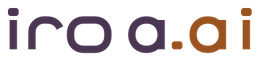
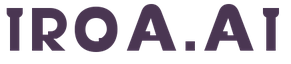
brand: redesign Track B identity family

diff --git a/tests/brand/test_brand_assets.py b/tests/brand/test_brand_assets.py
@@ -1,10 +1,12 @@
 import hashlib
 from pathlib import Path
+import re
 import shutil
 import subprocess
 import sys
 from tempfile import TemporaryDirectory
 import unittest
+from xml.etree import ElementTree as ET
 
 from PIL import Image
 
@@ -15,6 +17,110 @@ from tools.brand.render_assets import render_svg_png
 
 def _digest(path: Path) -> str:
     return hashlib.sha256(path.read_bytes()).hexdigest()
+
+
+def _local_tag(tag: str) -> str:
+    return tag.rsplit("}", 1)[-1].lower()
+
+
+def _geometry_signature(path: Path) -> tuple[str, tuple[tuple[str, str], ...]]:
+    root = ET.parse(path).getroot()
+    geometry = tuple(
+        (_local_tag(element.tag), element.attrib.get("d", ""))
+        for element in root.iter()
+        if _local_tag(element.tag) == "path"
+    )
+    return root.attrib.get("viewBox", ""), geometry
+
+
+def _svg_colors(path: Path) -> set[str]:
+    colors = set()
+    for element in ET.parse(path).iter():
+        for value in element.attrib.values():
+            colors.update(
+                color.upper() for color in re.findall(r"#[0-9A-Fa-f]{6}\b", value)
+            )
+    return colors
+
+
+def _svg_aspect_ratio(path: Path) -> float:
+    values = ET.parse(path).getroot().attrib["viewBox"].split()
+    return float(values[2]) / float(values[3])
+
+
+def _render_rgba(source: Path, width: int, height: int) -> Image.Image:
+    with TemporaryDirectory() as directory:
+        destination = Path(directory) / "render.png"
+        render_svg_png(source, destination, width, height)
+        with Image.open(destination).convert("RGBA") as image:
+            return image.copy()
+
+
+def _render_normalized(source: Path, canvas_width: int, height: int) -> Image.Image:
+    width = round(height * _svg_aspect_ratio(source))
+    if width > canvas_width:
+        raise ValueError(f"{source} is wider than the comparison canvas")
+    rendered = _render_rgba(source, width, height)
+    canvas = Image.new("RGBA", (canvas_width, height))
+    canvas.alpha_composite(rendered, ((canvas_width - width) // 2, 0))
+    return canvas
+
+
+def _alpha_iou(left: Image.Image, right: Image.Image) -> float:
+    left_ink = {
+        (x, y)
+        for y in range(left.height)
+        for x in range(left.width)
+        if left.getpixel((x, y))[3] >= 128
+    }
+    right_ink = {
+        (x, y)
+        for y in range(right.height)
+        for x in range(right.width)
+        if right.getpixel((x, y))[3] >= 128
+    }
+    return len(left_ink & right_ink) / len(left_ink | right_ink)
+
+
+def _ink_components(image: Image.Image) -> list[int]:
+    ink = {
+        (x, y)
+        for y in range(image.height)
+        for x in range(image.width)
+        if image.getpixel((x, y))[3] >= 128
+    }
+    sizes = []
+    while ink:
+        stack = [ink.pop()]
+        size = 1
+        while stack:
+            x, y = stack.pop()
+            for neighbor in ((x - 1, y), (x + 1, y), (x, y - 1), (x, y + 1)):
+                if neighbor in ink:
+                    ink.remove(neighbor)
+                    stack.append(neighbor)
+                    size += 1
+        sizes.append(size)
+    return sorted(sizes, reverse=True)
+
+
+def _horizontal_ink_runs(image: Image.Image) -> list[tuple[int, int]]:
+    columns = [
+        x
+        for x in range(image.width)
+        if any(image.getpixel((x, y))[3] >= 128 for y in range(image.height))
+    ]
+    if not columns:
+        return []
+    runs = []
+    start = previous = columns[0]
+    for column in columns[1:]:
+        if column != previous + 1:
+            runs.append((start, previous))
+            start = column
+        previous = column
+    runs.append((start, previous))
+    return runs
 
 
 class BrandContractTest(unittest.TestCase):
@@ -82,6 +188,8 @@ class BrandContractTest(unittest.TestCase):
         track_b = CandidatePaths(Path("docs/brand/candidates/track-b"))
         for path in (
             track_b.symbol,
+            track_b.root / "symbol-reverse.svg",
+            track_b.root / "symbol-mono.svg",
             track_b.wordmark,
             track_b.wordmark_reverse,
             track_b.wordmark_mono,
@@ -90,6 +198,109 @@ class BrandContractTest(unittest.TestCase):
             audit_svg(path)
         self.assertNotEqual(_digest(track_a.symbol), _digest(track_b.symbol))
         self.assertNotEqual(_digest(track_a.wordmark), _digest(track_b.wordmark))
+
+    def test_track_b_masters_are_path_only(self):
+        root = Path("docs/brand/candidates/track-b")
+        allowed = {"svg", "title", "desc", "g", "path"}
+        for path in sorted(root.glob("*.svg")):
+            tags = {_local_tag(element.tag) for element in ET.parse(path).iter()}
+            self.assertLessEqual(tags, allowed, (path, tags - allowed))
+
+    def test_track_b_color_variants_share_exact_geometry(self):
+        root = Path("docs/brand/candidates/track-b")
+        families = (
+            ("symbol.svg", "symbol-mono.svg", "symbol-reverse.svg"),
+            ("wordmark.svg", "wordmark-mono.svg", "wordmark-reverse.svg"),
+        )
+        for names in families:
+            paths = tuple(root / name for name in names)
+            for path in paths:
+                self.assertTrue(path.is_file(), path)
+            signatures = {_geometry_signature(path) for path in paths}
+            self.assertEqual(len(signatures), 1, paths)
+
+    def test_track_b_palette_excludes_legacy_colors(self):
+        neutral = {"#000000", "#111111", "#FFFFFF"}
+        legacy_paths = tuple(Path("docs/brand/candidates/track-a").glob("*.svg"))
+        legacy_paths += tuple(Path("docs/brand").glob("iroa-*.svg"))
+        legacy_colors = set().union(*(_svg_colors(path) for path in legacy_paths))
+        track_b_colors = set().union(
+            *(
+                _svg_colors(Path("docs/brand/candidates/track-b") / name)
+                for name in ("symbol.svg", "wordmark.svg")
+            )
+        )
+        chromatic_track_b = track_b_colors - neutral
+        self.assertTrue(chromatic_track_b)
+        self.assertTrue(
+            chromatic_track_b.isdisjoint(legacy_colors - neutral),
+            chromatic_track_b & legacy_colors,
+        )
+
+    def test_track_b_rendered_geometry_is_materially_independent(self):
+        track_a = CandidatePaths(Path("docs/brand/candidates/track-a"))
+        track_b = CandidatePaths(Path("docs/brand/candidates/track-b"))
+        track_a_symbol = _render_normalized(track_a.symbol, 96, 96)
+        track_b_symbol = _render_normalized(track_b.symbol, 96, 96)
+        track_a_wordmark = _render_normalized(track_a.wordmark_mono, 436, 96)
+        track_b_wordmark = _render_normalized(track_b.wordmark_mono, 436, 96)
+
+        symbol_iou = _alpha_iou(track_a_symbol, track_b_symbol)
+        wordmark_iou = _alpha_iou(track_a_wordmark, track_b_wordmark)
+        self.assertLess(symbol_iou, 0.40, symbol_iou)
+        self.assertLess(wordmark_iou, 0.18, wordmark_iou)
+        self.assertNotEqual(
+            len(_ink_components(track_a_symbol)),
+            len(_ink_components(track_b_symbol)),
+        )
+        self.assertNotEqual(
+            len(_ink_components(track_a_wordmark)),
+            len(_ink_components(track_b_wordmark)),
+        )
+
+    def test_track_b_wordmark_integrates_i_and_has_even_native_spacing(self):
+        source = Path("docs/brand/candidates/track-b/wordmark-mono.svg")
+        aspect_ratio = _svg_aspect_ratio(source)
+        reference = _render_rgba(source, round(96 * aspect_ratio), 96)
+        self.assertEqual(len(_ink_components(reference)), 7)
+
+        for height in (16, 24, 32, 64):
+            image = _render_rgba(source, round(height * aspect_ratio), height)
+            runs = _horizontal_ink_runs(image)
+            self.assertEqual(len(runs), 7, (height, runs))
+            gaps = [
+                right[0] - left[1] - 1
+                for left, right in zip(runs, runs[1:])
+            ]
+            self.assertGreaterEqual(min(gaps), 1, (height, gaps))
+            self.assertLessEqual(max(gaps), min(gaps) * 2 + 1, (height, gaps))
+
+    def test_track_b_review_proofs_cover_all_variants(self):
+        root = Path("docs/brand/candidates/track-b")
+        for stem in (
+            "symbol",
+            "symbol-mono",
+            "symbol-reverse",
+            "wordmark",
+            "wordmark-mono",
+            "wordmark-reverse",
+        ):
+            source = root / f"{stem}.svg"
+            self.assertTrue(source.is_file(), source)
+            aspect_ratio = _svg_aspect_ratio(source)
+            for height in (16, 24, 32, 64):
+                proof = root / "renders" / f"{stem}-{height}.png"
+                self.assertTrue(proof.is_file(), proof)
+                audit_png(proof, round(height * aspect_ratio), height)
+
+    def test_track_b_masters_render_deterministically(self):
+        root = Path("docs/brand/candidates/track-b")
+        for source in sorted(root.glob("*.svg")):
+            aspect_ratio = _svg_aspect_ratio(source)
+            width = round(32 * aspect_ratio)
+            first = _render_rgba(source, width, 32)
+            second = _render_rgba(source, width, 32)
+            self.assertEqual(first.tobytes(), second.tobytes(), source)
 
     def test_track_a_mono_o_renders_with_a_distinct_action_point(self):
         source = Path("docs/brand/candidates/track-a/wordmark-mono.svg")

diff --git a/docs/brand/candidates/track-b/CONSTRUCTION.md b/docs/brand/candidates/track-b/CONSTRUCTION.md
@@ -1,32 +1,46 @@
-# Track B — Switchline
+# Track B — Relay Step
 
-Track B is a zero-base identity family built from the service role: IROA.AI keeps a real-life request moving while the user can pause, choose, and hand the work to a person. It does not inherit the existing symbol, wordmark geometry, or palette.
+Track B is a zero-base identity family built from IROA.AI's role in carrying a real-life request through user-controlled decisions to a verified result and human handoff. It does not inherit the legacy or Track A symbol, wordmark skeleton, palette, open-ring motif, or action-dot construction.
 
-## Construction language
+## Shared construction feature
 
-- The symbol uses a `96 × 96` grid and one asymmetric switchback route. It enters at the lower left, turns through a protected counter, then exits horizontally as a handoff segment.
-- The master stroke is `12` units in the symbol and `11` units in the wordmark. Outer turns use smooth `9–11` unit transitions; exposed terminals are cut flat so every route has a visible beginning and end.
-- The lowercase wordmark uses an `96`-unit em, a `44`-unit x-height (`y=30` to `y=74`), and a shared baseline at `y=74`. Every letter is custom vector geometry rather than converted or live font text.
-- The `r`, `o`, and single-storey `a` reuse the symbol's straight-to-radius-to-straight sequence. The closed `o` counter is deliberately not an open ring, and the `a` carries the horizontal exit behavior of the symbol.
-- The two `i` tittles and the period are rounded control tiles, required for exact reading of `iroa.ai`. They are not detached from the name as a freestanding action-dot motif and never appear inside the symbol.
-- Default color divides the route only once: core name/route in deep mulberry `#4A3652`, handoff domain/segment in grounded amber `#9A531F`. Both pass 4.5:1 against white (`10.82:1` and `5.78:1`). Reverse is white; mono is `#111111`.
+The ownable feature is the **relay step**: a counter or crossbar runs horizontally, drops by `5` units, then releases into the next diagonal or vertical mass. It is visible in the symbol's enclosed `r`, the wordmark's `r` counter, the stressed `o` counter, and both structural `a` counters. The step remains geometry in color, mono, and reverse; it is never dependent on an accent color or explanation.
 
-## Clear space
+The symbol is an `ir` ligature, not a service pictogram. Its fused flag head comes directly from the wordmark's `i`; its enclosed counter, relay step, and diagonal release come directly from the wordmark's `r`. This keeps symbol and lettering in one construction language while avoiding an eye, heart, shield, robot, medical cross, link, infinity sign, coin, or generic AI spark.
 
-Use one master stroke (`S`) as the minimum clear space on all sides. For the symbol, `S = 12/96` of its rendered width. For the wordmark, `S = 11/96` of its rendered height. No container edge, copy, photograph focal point, or interface control may enter this area.
+## Master grids and lettering
 
-## Small-size rules
+- Symbol grid: `96 × 96`, filled silhouette, one enclosed stepped counter, no detached elements.
+- Wordmark grid: `436 × 96`, optical cap zone `y=6–78`, baseline `y=76`.
+- The exact name `iroa.ai` is rendered as custom unicase geometry. The `i` uses a fused flag head rather than a detached tittle; `r` uses an enclosed counter and diagonal leg; `o` is vertically stressed with an offset counter floor; `a` uses a structural two-level counter rather than a single-storey round bowl.
+- The domain suffix uses the same color, weight, rhythm, and counter grammar as the name. The period is a square punctuation stop, not a brand action dot.
+- Optical ink gaps at the master grid are `12–14` units. They quantize to distinct `2–3 px` gaps at `16 px` and remain within a `2:1` range at every review size.
 
-- Use the master SVG unchanged at `32 px` and above.
-- At `24 px`, preserve the two flat endpoints and the symbol's central counter; do not add outline, shadow, or interior fill.
-- At `16 px`, use only the symbol or the supplied wordmark master. Do not tighten tracking, round the cut terminals, or recolor individual tittles.
-- Never redraw the amber handoff as a circle or separate dot. Never close the switchback into a ring, infinity sign, chain link, shield, heart, or eye.
+## Color
 
-## File roles
+- Default: deep mulberry `#4A3652` on white (`10.82:1`).
+- Monochrome: near-black `#111111`.
+- Reverse: white `#FFFFFF` on dark fields; use a background of `#4A3652` or darker for review and production.
 
-- `symbol.svg`: two-color standalone switchline symbol.
-- `wordmark.svg`: deterministic two-color `iroa.ai` wordmark.
+Color is applied only after the silhouette passes mono review. Track B does not use the legacy navy, coral, or teal values and does not split `.ai` into a decorative color suffix.
+
+## Clear space and small sizes
+
+Use `U = 10/96` of the symbol width as minimum clear space on all sides. For the wordmark, use `U = 10/96` of rendered height around the entire lockup.
+
+- `64 px`: use the master unchanged.
+- `32 px`: the relay steps, `r/o/a` counters, and punctuation must remain distinct.
+- `24 px`: retain the fused `i` heads and all seven optical word/punctuation groups.
+- `16 px`: prefer the symbol for icon use; the wordmark remains approved only at its native proportional width (`73 × 16 px`) or wider.
+- Never remove the relay step, detach the `i` head, round the unicase forms into a monoline lowercase, recolor `.ai` separately, or close the symbol into a ring.
+
+## Deterministic file roles
+
+- `symbol.svg`: default-color symbol.
+- `symbol-mono.svg`: near-black symbol.
+- `symbol-reverse.svg`: white symbol for dark fields.
+- `wordmark.svg`: default-color exact `iroa.ai` wordmark.
+- `wordmark-mono.svg`: near-black wordmark.
 - `wordmark-reverse.svg`: white wordmark for dark fields.
-- `wordmark-mono.svg`: one-color wordmark for constrained production.
 
-All masters are pure SVG vectors with accessible title/description metadata, no `<text>` nodes, embedded fonts, or raster content.
+All six masters contain only SVG/group/path geometry plus accessible title/description metadata. They contain no `<text>`, embedded font, raster, image, `foreignObject`, or filter content.
